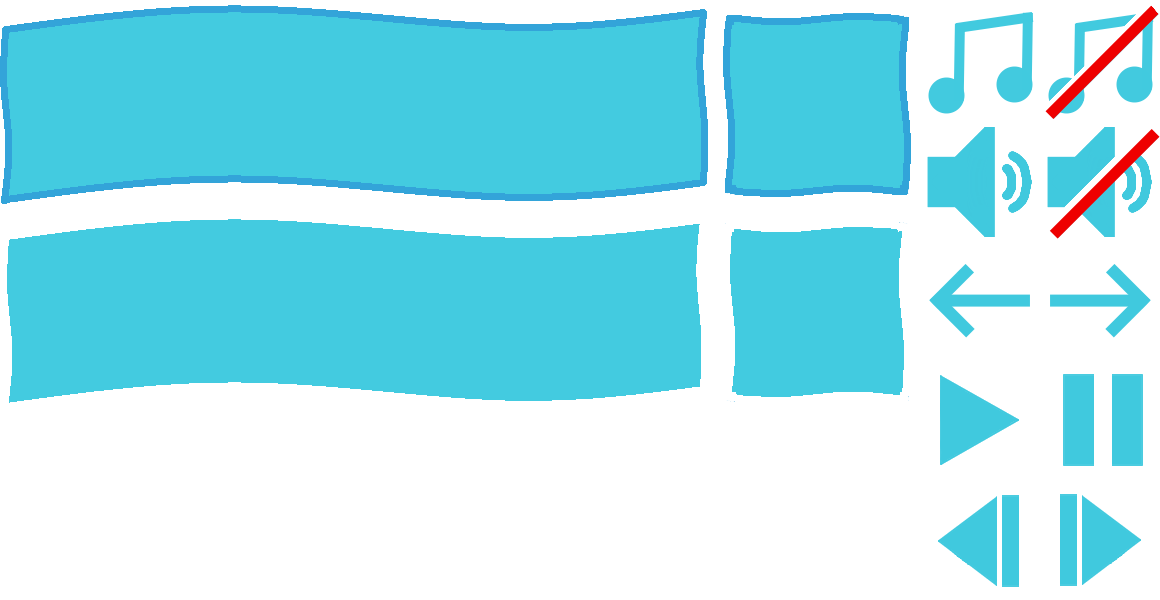
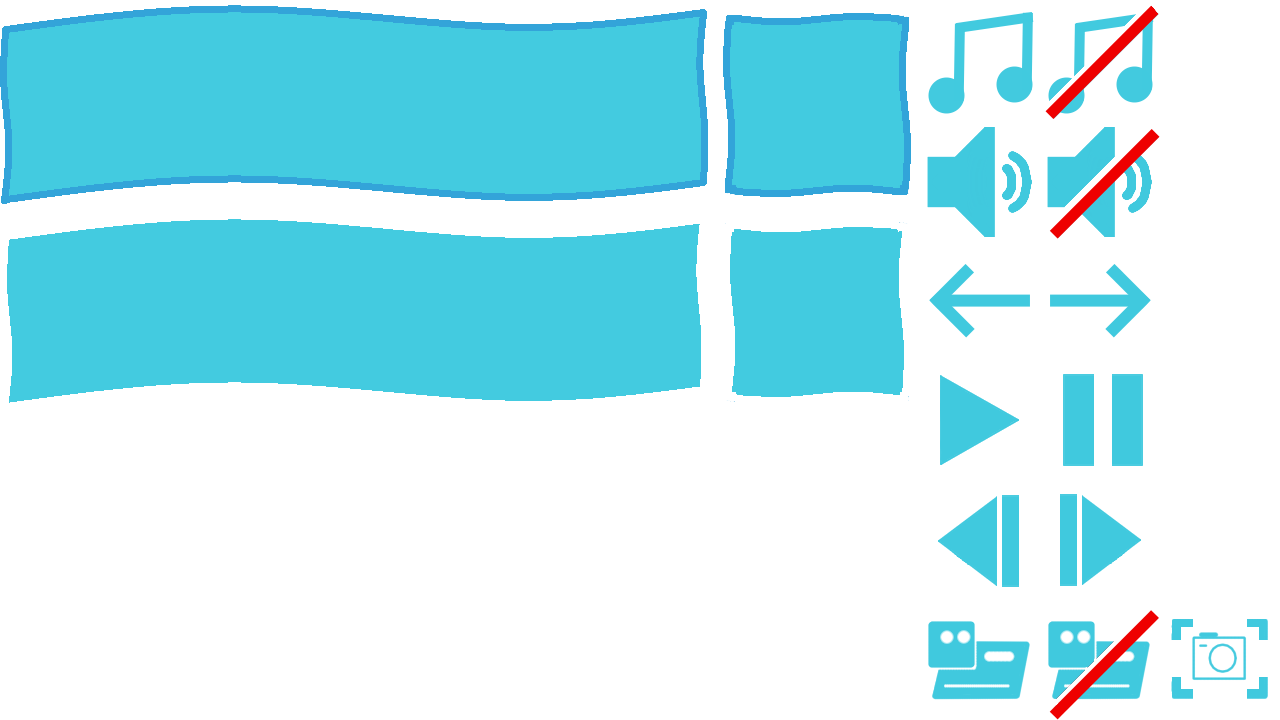
Make replays exportable and navigable

diff --git a/app/preload/index.js b/app/preload/index.js
@@ -525,6 +525,7 @@ const replayActions = {
             replay = new Replay(Replay.list[index].name, () => {
                 state.current = state.WATCHING_REPLAY;
                 water.flood.disable();
+                parallellogram.show();
                 isInGame = true;
             });
         });
@@ -535,6 +536,25 @@ const replayActions = {
      */
     export: (index) => {
         ipcRenderer.send("export-replay", Replay.list[index].name);
+        ipcRenderer.once("replay-export-started", () => dialog.show("Exporting replay...", "This may take a while."));
+        ipcRenderer.once("replay-export-error", (_e, err) => {
+            dialog.close();
+            errorAlert.show(err)
+        });
+        ipcRenderer.once("replay-export-finished", (_e, path) => dialog.show("Replay exported!", "", new Button({
+            text: "Close",
+            x: () => c.width(0.35),
+            y: () => c.height(0.75),
+            onclick: () => dialog.close()
+        }), new Button({
+            text: "Show in folder",
+            x: () => c.width(0.65),
+            y: () => c.height(0.75),
+            onclick: () => {
+                dialog.close();
+                shell.showItemInFolder(path);
+            }
+        })));
     },
     /**
      * Delete a replay.
@@ -1127,7 +1147,7 @@ Button.items = [
         state: state.REPLAYS_MENU,
         width: Button.width + 50,
         x: () => c.width(1/2),
-        y: () => 200,
+        y: () => c.height(0.375) - 70,
         onclick: function() {
             config.misc.recordReplays = !config.misc.recordReplays;
             this.text = `Record replays: ${config.misc.recordReplays ? "ON":"OFF"}`;
@@ -1337,7 +1357,7 @@ Button.items = [
     // Replay screen
     new Button({
         id: "Replay-ToggleHUD",
-        icon: () => [1, 4],
+        icon: () => [Number(!parallellogram.visible), 5],
         state: state.WATCHING_REPLAY,
         x: () => c.width() - 50,
         y: () => 50,
@@ -1350,48 +1370,66 @@ Button.items = [
         id: "Replay-NextFrame",
         icon: () => [1, 4],
         state: state.WATCHING_REPLAY,
-        x: () => c.width() - 150,
+        x: () => c.width() - 170,
         y: () => 50,
-        onclick: () => replay.nextFrame()
+        onclick: function() {
+            this.hovering = false;
+            replay.nextFrame();
+        }
     }),
     new Button({
         id: "Replay-PlayPause",
         icon: () => [Number(!replay.paused), 3],
         state: state.WATCHING_REPLAY,
-        x: () => c.width() - 230,
+        x: () => c.width() - 250,
         y: () => 50,
-        onclick: () => replay.togglePause()
+        onclick: function() {
+            this.hovering = false;
+            replay.togglePause();
+        }
     }),
     new Button({
         id: "Replay-PrevFrame",
         icon: () => [0, 4],
         state: state.WATCHING_REPLAY,
-        x: () => c.width() - 310,
+        x: () => c.width() - 330,
         y: () => 50,
-        onclick: () => replay.previousFrame()
+        onclick: function() {
+            this.hovering = false;
+            replay.previousFrame();
+        }
     }),
     new Button({
         id: "Replay-FasterRate",
         icon: () => [1, 2],
         state: state.WATCHING_REPLAY,
-        x: () => c.width() - 500,
+        x: () => c.width() - 450,
         y: () => 50,
-        onclick: () => {
-            replay.playbackRate++;
-            if (replay.playbackRate === 0) replay.playbackRate++;
-            if (replay.playbackRate >= 3) replay.playbackRate = 3;
+        onclick: function() {
+            this.hovering = false;
+            replay.increasePlaybackRate();
         }
     }),
     new Button({
         id: "Replay-SlowerRate",
         icon: () => [0, 2],
         state: state.WATCHING_REPLAY,
-        x: () => c.width() - 650,
+        x: () => c.width() - 600,
         y: () => 50,
-        onclick: () => {
-            replay.playbackRate--;
-            if (replay.playbackRate === 0) replay.playbackRate--;
-            if (replay.playbackRate <= -3) replay.playbackRate = -3;
+        onclick: function() {
+            this.hovering = false;
+            replay.decreasePlaybackRate();
+        }
+    }),
+    new Button({
+        id: "Replay-SaveScreenshot",
+        icon: () => [2, 5],
+        state: state.WATCHING_REPLAY,
+        x: () => c.width() - 720,
+        y: () => 50,
+        onclick: function() {
+            this.hovering = false;
+            c.screenshot(`${replay.name.slice(0, replay.name.lastIndexOf("."))}-frame-${replay.playingFrame}.png`)
         }
     }),
     // LAN game waiting menu (host)
@@ -2061,11 +2099,11 @@ addEventListener("DOMContentLoaded", () => {
         frames++;
         if (socket.isOpen()) {
             game = socket.getGame();
-            if (replay && config.misc.recordReplays) replay.recordFrame(game);
+            if (replay && config.misc.recordReplays && game.ping - game.startedOn >= 3000) replay.recordFrame(game);
         } else if (state.is(state.WAITING_LOCAL, state.PLAYING_LOCAL, state.WAITING_FREEPLAY, state.PLAYING_FREEPLAY)) {
             instance.update();
             game = instance.export();
-            if (replay && config.misc.recordReplays) replay.recordFrame(game);
+            if (replay && config.misc.recordReplays && game.ping - game.startedOn >= 3000) replay.recordFrame(game);
         } else if (state.is(state.WATCHING_REPLAY)) {
             replay.update();
             game = replay.frames[replay.playingFrame];
@@ -2092,7 +2130,7 @@ addEventListener("DOMContentLoaded", () => {
             } else if (lgame.startState === 2 && game.startState === 3) {
                 audio._play(audio.countdown);
                 bigNotification.show("3", theme.colors.bigNotification.r);
-                parallellogram.show();
+                if (state.current !== state.WATCHING_REPLAY) parallellogram.show();
             } else if (lgame.startState === 3 && game.startState === 4) {
                 audio._play(audio.countdown);
                 bigNotification.show("2", theme.colors.bigNotification.o);
@@ -2496,16 +2534,21 @@ addEventListener("DOMContentLoaded", () => {
             const m = Math.max(0, Math.floor(game.remaining / 60));
             const s = ("0" + Math.max(0, game.remaining % 60)).slice(-2);
             const liquid = (theme.current === "lava") ? "Lava" : "Water";
-            const text = (state.current === state.WATCHING_REPLAY && replay) ? `${replay.playingFrame} / ${replay.frames.length} (${(replay.playingFrame / replay.frames.length * 100).toFixed(0)}%)`
-             : (game.winner !== null) ? `Returning to menu in ${m}:${s}`
+            const text = (game.winner !== null) ? `Returning to menu in ${m}:${s}`
              : (game.remaining >= 0) ? `${liquid} starts rising in ${m}:${s}`
              : (!game.flooded) ? `${liquid} is rising!`
              : (state.is(state.PLAYING_FREEPLAY) && game.players.filter(p => p && p.lives > 0).length === 1 && game.players[playerIndex].lives > 0) ? "Congratulations!"
              : "Fight to the victory!";
             const color = (game.remaining < 0 && game.winner === null && !game.flooded && frames % 60 < 30) ? theme.colors.error.foreground : theme.getTextColor();
-            c.draw.text({text, x: 15 + screenShake.x, y: 35 + screenShake.y, color, font: {size: 28}, alignment: "left"});
+
+            if (state.current === state.WATCHING_REPLAY && replay) {
+                const replayInformation = `Frame ${replay.playingFrame} / ${replay.frames.length - 1} (${(replay.playingFrame / (replay.frames.length - 1) * 100).toFixed(0)}%)`;
+                c.draw.text({text: replayInformation, x: 15 + screenShake.x, y: 35 + screenShake.y, font: {size: 28}, alignment: "left"});
+                c.draw.text({text, x: 15 + screenShake.x, y: 65 + screenShake.y, color, font: {size: 20, style: "italic"}, alignment: "left"});
+            } else c.draw.text({text, x: 15 + screenShake.x, y: 35 + screenShake.y, color, font: {size: 28}, alignment: "left"});
+
             if (state.current === state.PLAYING_LAN) c.draw.text({text: `Ping: ${Math.max(0, ping)} ms`, x: c.width() - 15, y: 25, font: {size: 12}, alignment: "right"});
-            else if (state.current === state.WATCHING_REPLAY && replay) c.draw.text({text: `${replay.playbackRate}x`, x: c.width() - 575, y: 60, font: {size: 32, style: "bold"}});
+            else if (state.current === state.WATCHING_REPLAY && replay) c.draw.text({text: `${replay.playbackRate}x`, x: c.width() - 525, y: 60, font: {size: 32, style: "bold", shadow: true}});
         } else drawWater();
 
         if (state.current === state.MAIN_MENU) {
@@ -2594,13 +2637,15 @@ addEventListener("DOMContentLoaded", () => {
             c.draw.text({text: "ACHIEVEMENTS", x: c.width(0.5) + state.change.x, y: 80, font: {size: 58, style: "bold", shadow: true}}); 
         } else if (state.current === state.REPLAYS_MENU) {
             c.draw.text({text: "REPLAYS", x: c.width(0.5) + state.change.x, y: 80, font: {size: 58, style: "bold", shadow: true}});
+            c.draw.text({text: "Look back at the games you played!", x: c.width(0.5) + state.change.x, y: c.height(0.125) + 30, font: {size: 18, shadow: true}});
+            c.draw.text({text: "WARNING: replays take up a lot of disk space, so only the last 5 games are saved.", x: c.width(0.5) + state.change.x, y: c.height(0.125) + 55, font: {size: 18, shadow: true}});
             for (let i=0; i<5; i++) {
                 if (Replay.list[i]) {
-                    const title = Replay.list[i].name.slice(0, Replay.list[i].name.indexOf("."));
+                    const title = Replay.list[i].name.slice(0, Replay.list[i].name.lastIndexOf("."));
                     const subtitle = `Size: ${(Replay.list[i].size / 1e6).toFixed(1)} MB`;
-                    c.draw.text({text: title, x: c.width(1/2) - 580 + state.change.x, y: c.height(1/2) - 40 + i * 80, alignment: "left", font: {size: 36, style: "bold"}});
-                    c.draw.text({text: subtitle, x: c.width(1/2) - 580 + state.change.x, y: c.height(1/2) - 15 + i * 80, alignment: "left", font: {size: 18}});
-                } else c.draw.text({text: "Empty", x: c.width(1/2) - 580 + state.change.x, y: c.height(1/2) - 30 + i * 80, alignment: "left", font: {size: 36, style: "italic"}});
+                    c.draw.text({text: title, x: c.width(1/2) - 580 + state.change.x, y: c.height(1/2) - 40 + i * 80, alignment: "left", font: {size: 36, style: "bold", shadow: true}});
+                    c.draw.text({text: subtitle, x: c.width(1/2) - 580 + state.change.x, y: c.height(1/2) - 15 + i * 80, alignment: "left", font: {size: 18, shadow: true}});
+                } else c.draw.text({text: "Empty", x: c.width(1/2) - 580 + state.change.x, y: c.height(1/2) - 30 + i * 80, alignment: "left", font: {size: 36, style: "italic", shadow: true}});
             } 
         } else if (state.is(state.WAITING_LAN_GUEST, state.WAITING_LAN_HOST, state.WAITING_FREEPLAY) && game) {
             const ips = network.getIPs();

diff --git a/app/class/game/Replay.js b/app/class/game/Replay.js
@@ -14,6 +14,9 @@
 
 const { ipcRenderer } = require("electron");
 
+const { getButtonById } = require("../ui/Button");
+
+
 class Replay {
     /** @type {ReplayList[]} */
     static list = [];
@@ -42,6 +45,16 @@ class Replay {
                 this.frames = data.frames;
                 if (onloaded) onloaded();
             });
+
+            addEventListener("keydown", (e) => {
+                const key = e.key.toLowerCase();
+
+                if (key === " ") this.togglePause();
+                else if (key === "arrowleft") this.previousFrame();
+                else if (key === "arrowright") this.nextFrame();
+                else if (key === "arrowup") this.increasePlaybackRate();
+                else if (key === "arrowdown") this.decreasePlaybackRate();
+            });
         } else {
             this.#isRecording = true;
             this.name = new Intl.DateTimeFormat("nl", {dateStyle: "short", timeStyle: "medium"}).format().replace(/(,\s+|:)/g, "-");
@@ -50,10 +63,19 @@ class Replay {
     }
 
     update() {
-        if (this.#isRecording || this.paused) return;
+        if (this.#isRecording) return;
+
+        getButtonById("Replay-SaveScreenshot").disabled = !this.paused;
+        getButtonById("Replay-SlowerRate").disabled = (this.playbackRate <= -3);
+        getButtonById("Replay-FasterRate").disabled = (this.playbackRate >= 3);
+        getButtonById("Replay-PrevFrame").disabled = (this.playingFrame <= 0 || !this.paused);
+        getButtonById("Replay-NextFrame").disabled = (this.playingFrame >= this.frames.length - 1 || !this.paused);
+
+        if (this.paused) return;
 
         this.playingFrame += Math.round(this.playbackRate);
         if (this.playingFrame <= 0) {
+            this.paused = true;
             this.playingFrame = 0;
             if (this.playbackRate < 0) this.playbackRate = 1;
         } else if (this.playingFrame >= this.frames.length - 1) {
@@ -64,15 +86,28 @@ class Replay {
 
     togglePause() {
         if (this.#isRecording) return;
+
+        if (this.playingFrame === this.frames.length - 1) this.playingFrame = 0;
         this.paused = !this.paused;
     }
     previousFrame() {
-        if (this.#isRecording) return;
+        if (this.#isRecording || !this.paused) return;
         this.playingFrame = Math.max(0, this.playingFrame - 1);
     }
     nextFrame() {
-        if (this.#isRecording) return;
+        if (this.#isRecording || !this.paused) return;
         this.playingFrame = Math.min(this.frames.length - 1, this.playingFrame + 1);
+    }
+
+    increasePlaybackRate() {
+        this.playbackRate++;
+        if (this.playbackRate === 0) this.playbackRate++;
+        if (this.playbackRate >= 3) this.playbackRate = 3;
+    }
+    decreasePlaybackRate() {
+        this.playbackRate--;
+        if (this.playbackRate === 0) this.playbackRate--;
+        if (this.playbackRate <= -3) this.playbackRate = -3;
     }
 
     recordFrame(frame) {

diff --git a/app/file.js b/app/file.js
@@ -9,7 +9,7 @@
  */
 
 const { app } = require("electron");
-const { readdirSync, readFileSync, writeFileSync, existsSync, rmSync, mkdirSync, statSync } = require("fs");
+const { readdirSync, readFileSync, writeFileSync, existsSync, rmSync, copyFile, mkdirSync, statSync } = require("fs");
 const { EOL } = require("os");
 const { join } = require("path");
 
@@ -102,7 +102,15 @@ const replays = {
     /** @returns {import("./class/game/Replay").ReplayContent} */
     read: (name) => read(join(paths.replayFolder, name)),
     write: (name, data) => write(join(paths.replayFolder, name), data, 0),
-    delete: (name) => rmSync(join(paths.replayFolder, name), {force: true})
+    delete: (name) => rmSync(join(paths.replayFolder, name), {force: true}),
+    export: async (name, destination) => {
+        return new Promise((resolve, reject) => {
+            copyFile(join(paths.replayFolder, name), destination, (err) => {
+                if (err) reject(err.message);
+                else resolve(destination);
+            });
+        });
+    }
 };
 
 /**

diff --git a/app/index.js b/app/index.js
@@ -120,8 +120,15 @@ app.whenReady().then(() => {
     ipcMain.on("export-replay", (_e, name) => {
         dialog.showSaveDialog(window, {
             title: "Export replay",
-            defaultPath: join(app.getPath("downloads"), name),
+            defaultPath: join(app.getPath("home"), name),
             filters: [{name: "Super Splash Bros 2 Replay", extensions: ["*.ssb2replay"]}]
+        }).then((res) => {
+            if (res.canceled) return;
+
+            window.webContents.send("replay-export-started");
+            file.replays.export(name, res.filePath)
+             .then((path) => window.webContents.send("replay-export-finished", path))
+             .catch((err) => window.webContents.send("replay-export-error", err));
         });
     });
     ipcMain.on("delete-replay", (_e, name) => file.replays.delete(name));

diff --git a/app/preload/canvas.js b/app/preload/canvas.js
@@ -43,6 +43,17 @@ const height = (factor = 1) => {
     return canvas.height * factor;
 };
 
+/** Generate and export a screenshot of the canvas. */
+const screenshot = (filename) => canvas.toBlob(img => {
+    const a = document.createElement("a");
+    a.href = URL.createObjectURL(img);
+    a.download = filename;
+    a.style.display = "none";
+    document.body.appendChild(a);
+    a.click();
+    a.remove();
+});
+
 /** Clears the entire canvas. */
 const clear = () => {
     c.clearRect(0, 0, width(), height());
@@ -406,6 +417,7 @@ module.exports = {
     init,
     width,
     height,
+    screenshot,
     clear,
     options,
     draw
